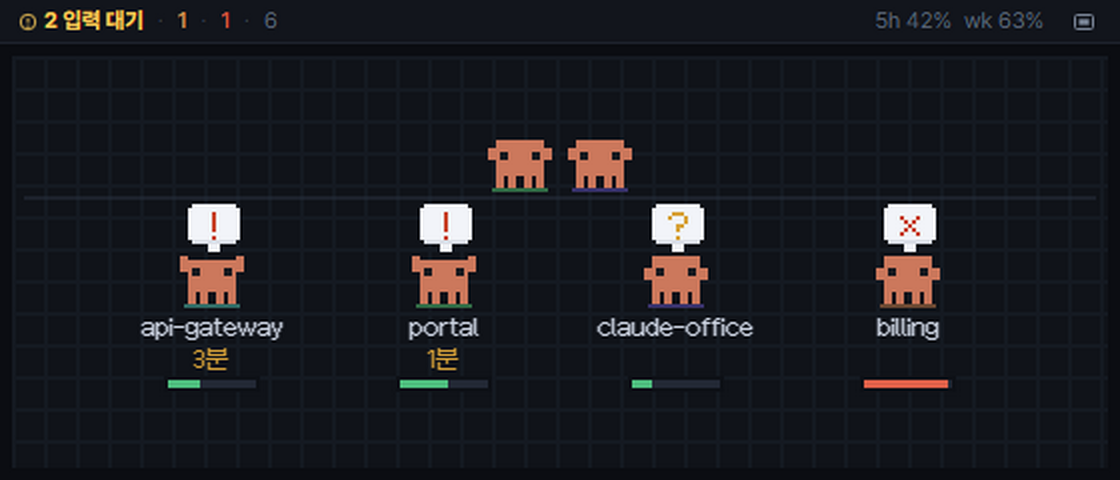
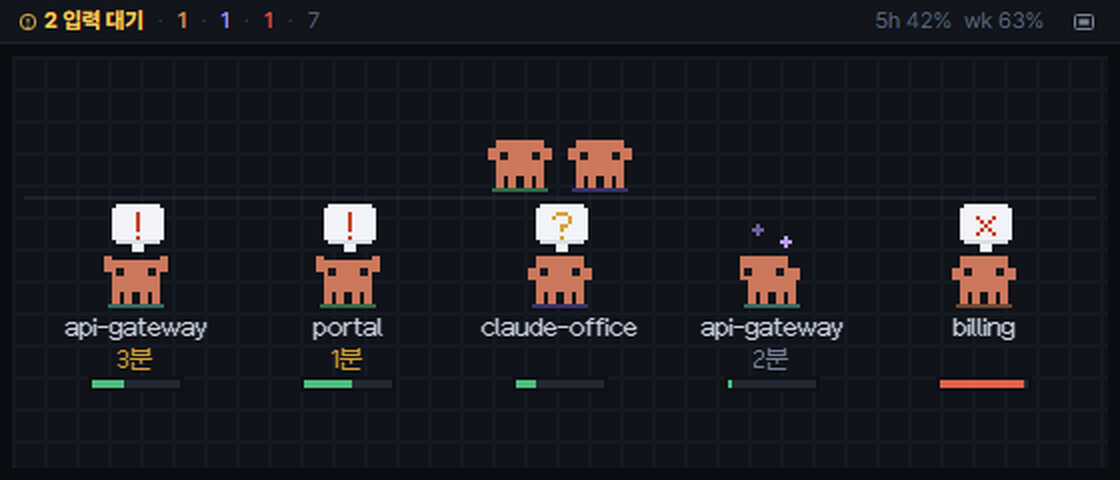
feat: 서버 장애를 화면 곳곳에서 센다 (#157)
#153에서 어지러움 연출을 넣었지만 표시가 캔버스와 패널에만 있었다. 사무실을 접어 두거나
작게 띄워 두면 서버가 죽어 일이 멈춘 것을 알 길이 없었다 — stats에 세지 않으므로 상단바 ·
세션 목록 · 트레이가 전부 그 세션을 `쉬는 중`으로 셌다.

어느 칸으로 부를지를 shared/status.mjs 하나에 둔다

- mood가 아닌 표시가 생기면 "이 세션을 뭐라고 부를 것인가"를 정하는 자리가 필요해진다.
  상단바·세션 목록·트레이·패널·캔버스가 전부 그 답 하나를 본다 — 갈라지면 상단바가
  `2 작업 중`인데 목록의 작업 중 묶음에는 셋이 있는 식으로 화면이 자기 모순에 빠진다
- 다른 칸에서 빼 준다(countBuckets). 안 빼면 칸의 합이 출근 인원을 넘는다
- 입력 대기만은 그대로 둔다 — 서버가 죽어 있어도 나를 부르는 것이 더 급한 소식이다

붙인 곳

- 상단바 칩(큰 창·작은 창) · 사무실 요약 표 · 트레이 툴팁
- 세션 목록 묶음. 순서는 대기 → 헤맴 → 서버 응답 없음 → 실패 → 작업 중 → 쉬는 중이다
  (헤매면 사람이 들여다봐야 하고, 실패는 이미 끝난 일이지만 이쪽은 지금 막혀 있다)
- 작게 띄운 창의 앞줄. mood만 보던 판정에서는 이 세션이 대개 idle이라 뒷줄에서 이름도
  없이 서 있었다 — 곁눈질하는 창에서 멈춘 일을 놓치는 자리였다
- 목록과 작은 창에 "얼마나 응답이 없었나"(brokenAt). 문턱이 8분이라 그 숫자가 곧
  곧 풀릴 것인가의 단서다. statusAt은 그 사이 사용자가 다시 던진 사정까지 따라간다
- 트레이 아이콘은 붉은 점을 헤맴·실패와 함께 쓰고 툴팁으로 가른다. 깜빡임에는 넣지 않는다 —
  그건 "지금 나를 부르고 있다"는 뜻으로 아껴 쓴다

README 캡처를 다시 구웠다(픽스처에 어지러운 세션 하나 — api-gateway).

diff --git a/renderer/style.css b/renderer/style.css
@@ -328,6 +328,10 @@ select:focus-visible {
   color: var(--stuck);
   font-weight: 700;
 }
+#stats .b {
+  color: var(--broken);
+  font-weight: 700;
+}
 #stats .f {
   color: var(--fail);
   font-weight: 700;
@@ -474,6 +478,9 @@ body.mini #stage-empty {
 #mini-stats .s {
   color: var(--stuck);
 }
+#mini-stats .b {
+  color: var(--broken);
+}
 #mini-stats .f {
   color: var(--fail);
 }
@@ -600,6 +607,9 @@ body.mini #stage-empty {
 }
 .rail-group.waiting {
   color: var(--acc);
+}
+.rail-group.broken {
+  color: var(--broken);
 }
 .rail-group .c {
   margin-left: auto;
@@ -1287,6 +1297,10 @@ b.lv-na {
 }
 .dot.stuck {
   background: var(--stuck);
+}
+/* mood는 아니지만 목록에서 한 묶음을 이루므로 여기 나란히 둔다 (shared/status.mjs) */
+.dot.broken {
+  background: var(--broken);
 }
 .dot.idle {
   background: var(--dot);

diff --git a/README.ko.md b/README.ko.md
@@ -50,10 +50,15 @@ Releases가 열린다.
 |---|---|
 | 작업 중 | 자리에 앉아 키보드를 두드리고, 모니터에 코드가 흐른다 |
 | 헤매는 중 | 자리에는 있는데 손이 멈춘다 — 느리게 머리를 긁적이고 ❓ 를 띄운다 |
+| **서버 응답 없음** | 고개를 갸우뚱하고 머리 위로 별이 돈다 |
 | **입력 대기** | 자리 앞으로 나와 두 집게를 들고 ❗ 를 든다 |
 | 완료 | ✓ 를 들고 바닥으로 걸어 나가 산책한다 |
 | 실패 · 정지 | 의자에 늘어져 있다 (✗ / zZ) |
 | 대기 | 방을 어슬렁거리고, 가끔 다 같이 러그에 모인다 (점심에는 더 자주) |
+
+**서버 응답 없음**은 헤매는 것과 다르다. 헤매는 것은 돌고는 있는데 진전이 없는 것이고, 이쪽은
+Claude 쪽 문제(`API Error: 529 Overloaded` 같은 것)로 아예 돌지 못하는 것이다 — 들여다볼 일이
+아니라 기다리면 되는 멈춤이라 따로 센다. 사용량 한도나 로그인 만료는 여기 들어가지 않는다.
 
 글자 없이도 읽히는 것이 셋 더 있다.
 
@@ -204,8 +209,8 @@ Releases가 열린다.
 상단바의 `▭` 버튼이나 트레이 메뉴로 켜면 테두리 없는 작은 창이 **항상 위**에 뜬다. 방은 그리지
 않고 **클로드만 한자리에 모아 세운다.**
 
-- **앞줄**은 나를 기다리는·헤매는·실패한 것들이다. 이름과 그 상태로 있은 시간이 붙는다.
-  대기가 없으면 앞줄도 없다
+- **앞줄**은 나를 기다리는·헤매는·서버가 죽어 멈춘·실패한 것들이다. 이름과 그 상태로 있은
+  시간이 붙는다. 대기가 없으면 앞줄도 없다
 - **뒷줄**은 일하는 것들이고 이름이 없다
 - 여기서는 아무도 돌아다니지 않는다 — 곁눈질하는 창에서 움직이는 표적을 쫓을 이유가 없다
 - **마우스를 올리면** 위 한 줄이 어느 방인지와 컨텍스트가 얼마나 찼는지를 알려주고, 누르면
@@ -246,8 +251,8 @@ Releases가 열린다.
 
 ### 방이 많아지면
 
-- 왼쪽 **세션 목록**이 상태별로 묶여 있다 — 나를 기다림 · 헤매는 중 · 실패 · 작업 중 ·
-  쉬는 중 · 퇴근한 작업. 급한 묶음이 늘 맨 위라 방이 스무 개여도 훑을 일이 없다. 줄을 누르면
+- 왼쪽 **세션 목록**이 상태별로 묶여 있다 — 나를 기다림 · 헤매는 중 · 서버 응답 없음 ·
+  실패 · 작업 중 · 쉬는 중 · 퇴근한 작업. 급한 묶음이 늘 맨 위라 방이 스무 개여도 훑을 일이 없다. 줄을 누르면
   그 자리가 열리고, 사무실에서 자리를 눌러도 목록의 줄이 따라 밝아진다
 - 목록 위 칸에 **이름 일부를 적어 거른다.** 자주 보는 방은 설정에서 `☆`로 앞에 고정하고
   나머지는 접는다. 셋 다 보기만 바꾸므로 접어 둔 방도 알림은 그대로 온다. 가려진 방이 있으면

diff --git a/README.md b/README.md
@@ -53,10 +53,16 @@ blinks to itself.
 |---|---|
 | working | Sits and hammers the keyboard, code scrolling on the monitor |
 | going in circles | Still at the desk, but the claws stop — a slow scratch of the head, and a ❓ |
+| **no server response** | Head tilts side to side, stars spinning above it |
 | **waiting on you** | Steps out in front of the desk, both claws up, holding a ❗ |
 | done | Walks out onto the floor with a ✓ and goes for a stroll |
 | failed · stopped | Slumped in the chair (✗ / zZ) |
 | idle | Mills about the room; now and then everyone gathers on the rug (more often at lunch) |
+
+**No server response** is not the same as going in circles. Going in circles means the session is
+running but getting nowhere; this one cannot run at all because of something on Claude's side
+(`API Error: 529 Overloaded` and the like) — nothing to look into, just something to wait out, so
+it is counted separately. Usage limits and expired logins do not land here.
 
 Three more things the office tells you without any text:
 
@@ -219,8 +225,8 @@ where it does.
 The `▭` button in the top bar (or the tray menu) drops the office into a small frameless window
 that stays **always on top**. No rooms here — just the crabs, **gathered in one place**.
 
-- The **front row** is whoever is waiting on you, stuck or failed, with a name and how long it has
-  been like that. No waiting, no front row
+- The **front row** is whoever is waiting on you, stuck, cut off by a server outage or failed, with
+  a name and how long it has been like that. No waiting, no front row
 - The **back row** is everyone working, unnamed
 - Nobody wanders in this window — there is no reason to chase a moving target in a view you only
   glance at
@@ -266,7 +272,7 @@ restarts.
 ### Once there are a lot of rooms
 
 - The **session list** on the left groups everything by state — waiting on you · going in circles ·
-  failed · working · resting · clocked out. The urgent group is always on top, so twenty rooms
+  no server response · failed · working · resting · clocked out. The urgent group is always on top, so twenty rooms
   need no scanning. Click a row to open that desk; click a desk in the office and the row
   highlights to match
 - **Filter them by name** in the box above the list. Pin the ones you watch with `☆` in Settings

diff --git a/docs/architecture.md b/docs/architecture.md
@@ -57,6 +57,9 @@ shared/i18n.mjs     화면에 나가는 문구 — t()·언어 정하기, 기간
 shared/lang/*.mjs   언어별 사전 (순수 데이터 — UI 문구 · 방 이름 · 캐릭터 대사)
 shared/accel.mjs    단축키를 보여주는 꼴 — 맥은 키캡 기호(⌥⌘O), 윈도는 글자(Ctrl+Alt+O).
                     설정 창과 등록 실패 알림이 같은 표기를 써야 해서 shared에 있다
+shared/status.mjs   세션 하나를 **무엇이라고 부를지**. mood 위에 얹히는 표시(서버 장애)가
+                    생기면서 "그래서 어느 칸에 세는가"의 답이 한 곳에 있어야 했다 —
+                    상단바·세션 목록·트레이·패널·캔버스가 전부 이것을 본다
 tools/make-icons.mjs        캐릭터 픽셀 → PNG (의존성 없이 직접 인코딩) — 맥 메뉴바용 16px 변형도 굽는다
 tools/install-usage-tap.mjs 위 로직의 CLI 껍데기 (npm run usage-tap)
 test/               `npm test` (node --test, 의존성 없음) — 알림 문턱 판정 · attach 명령 조립
